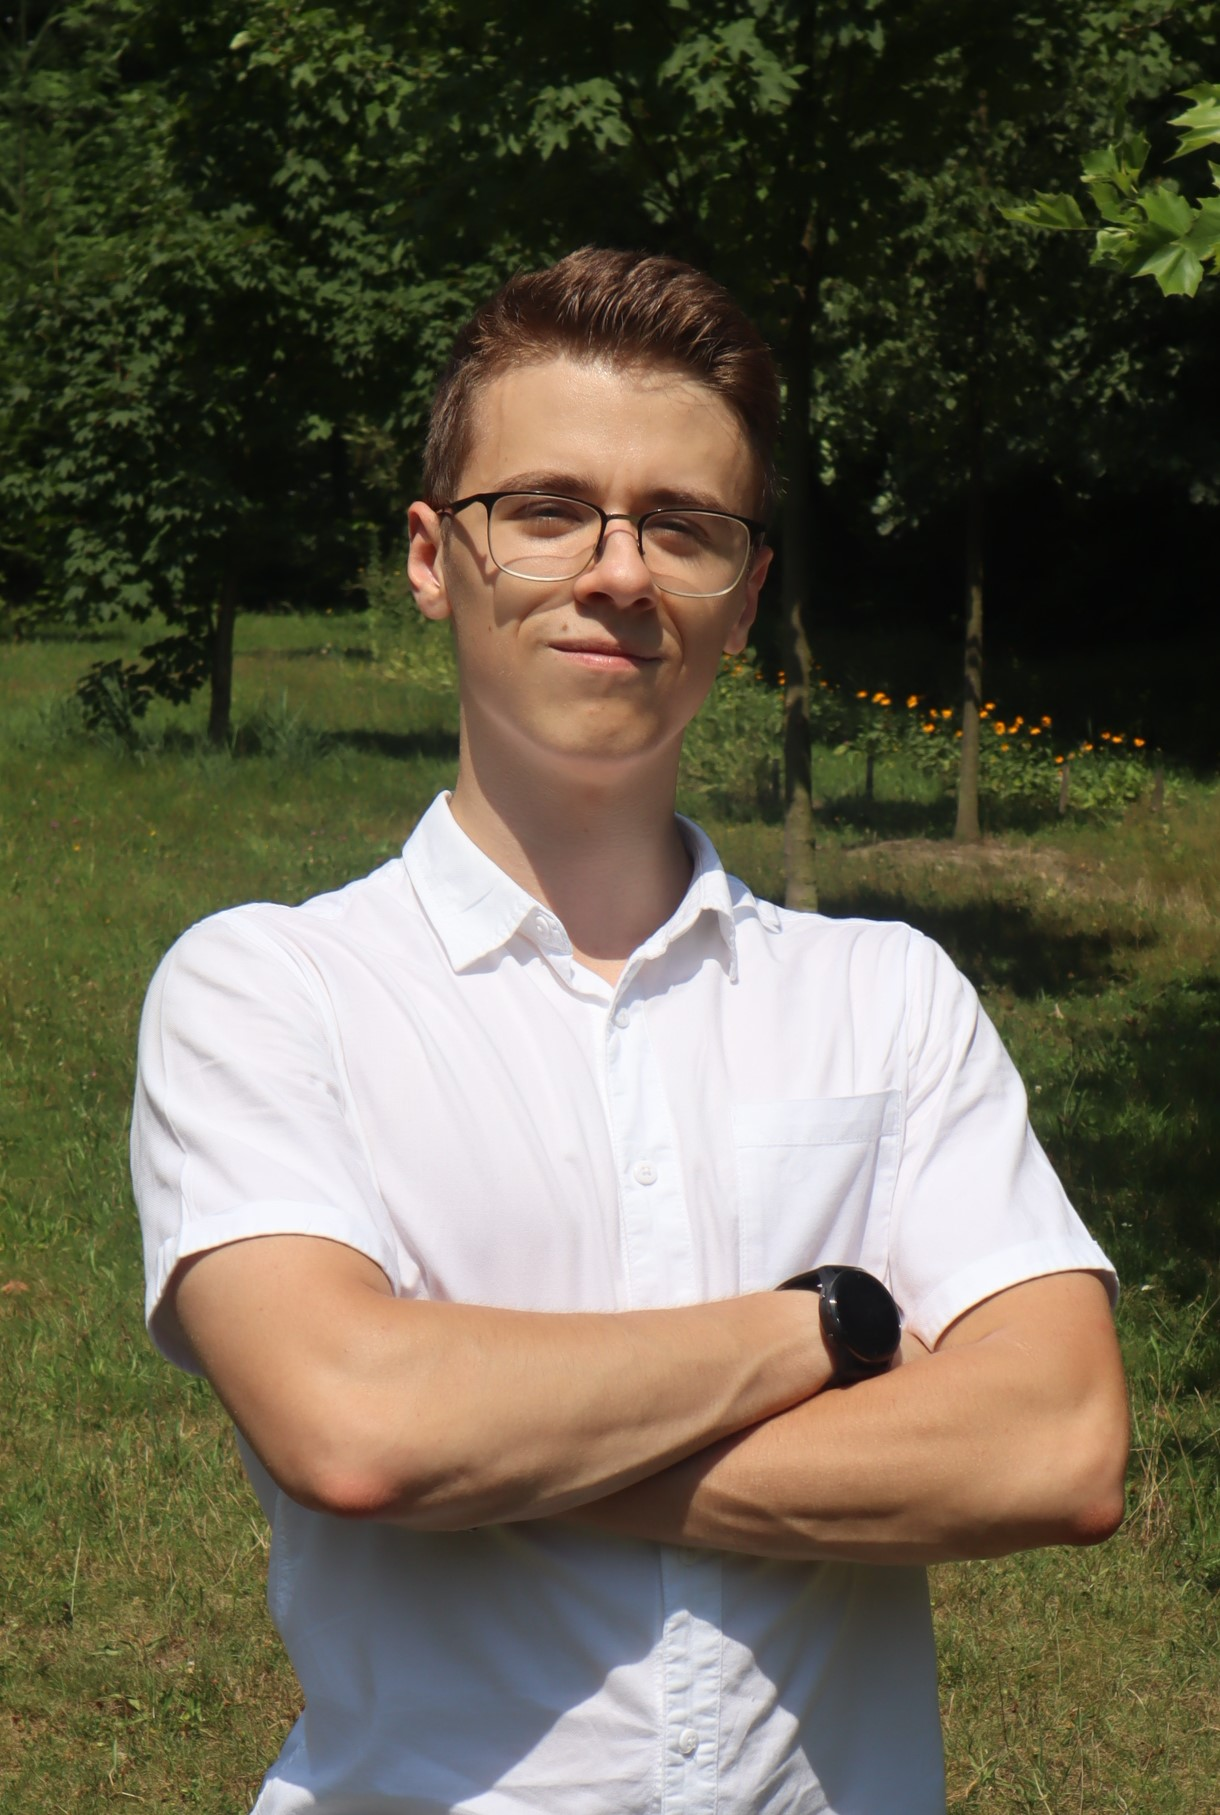
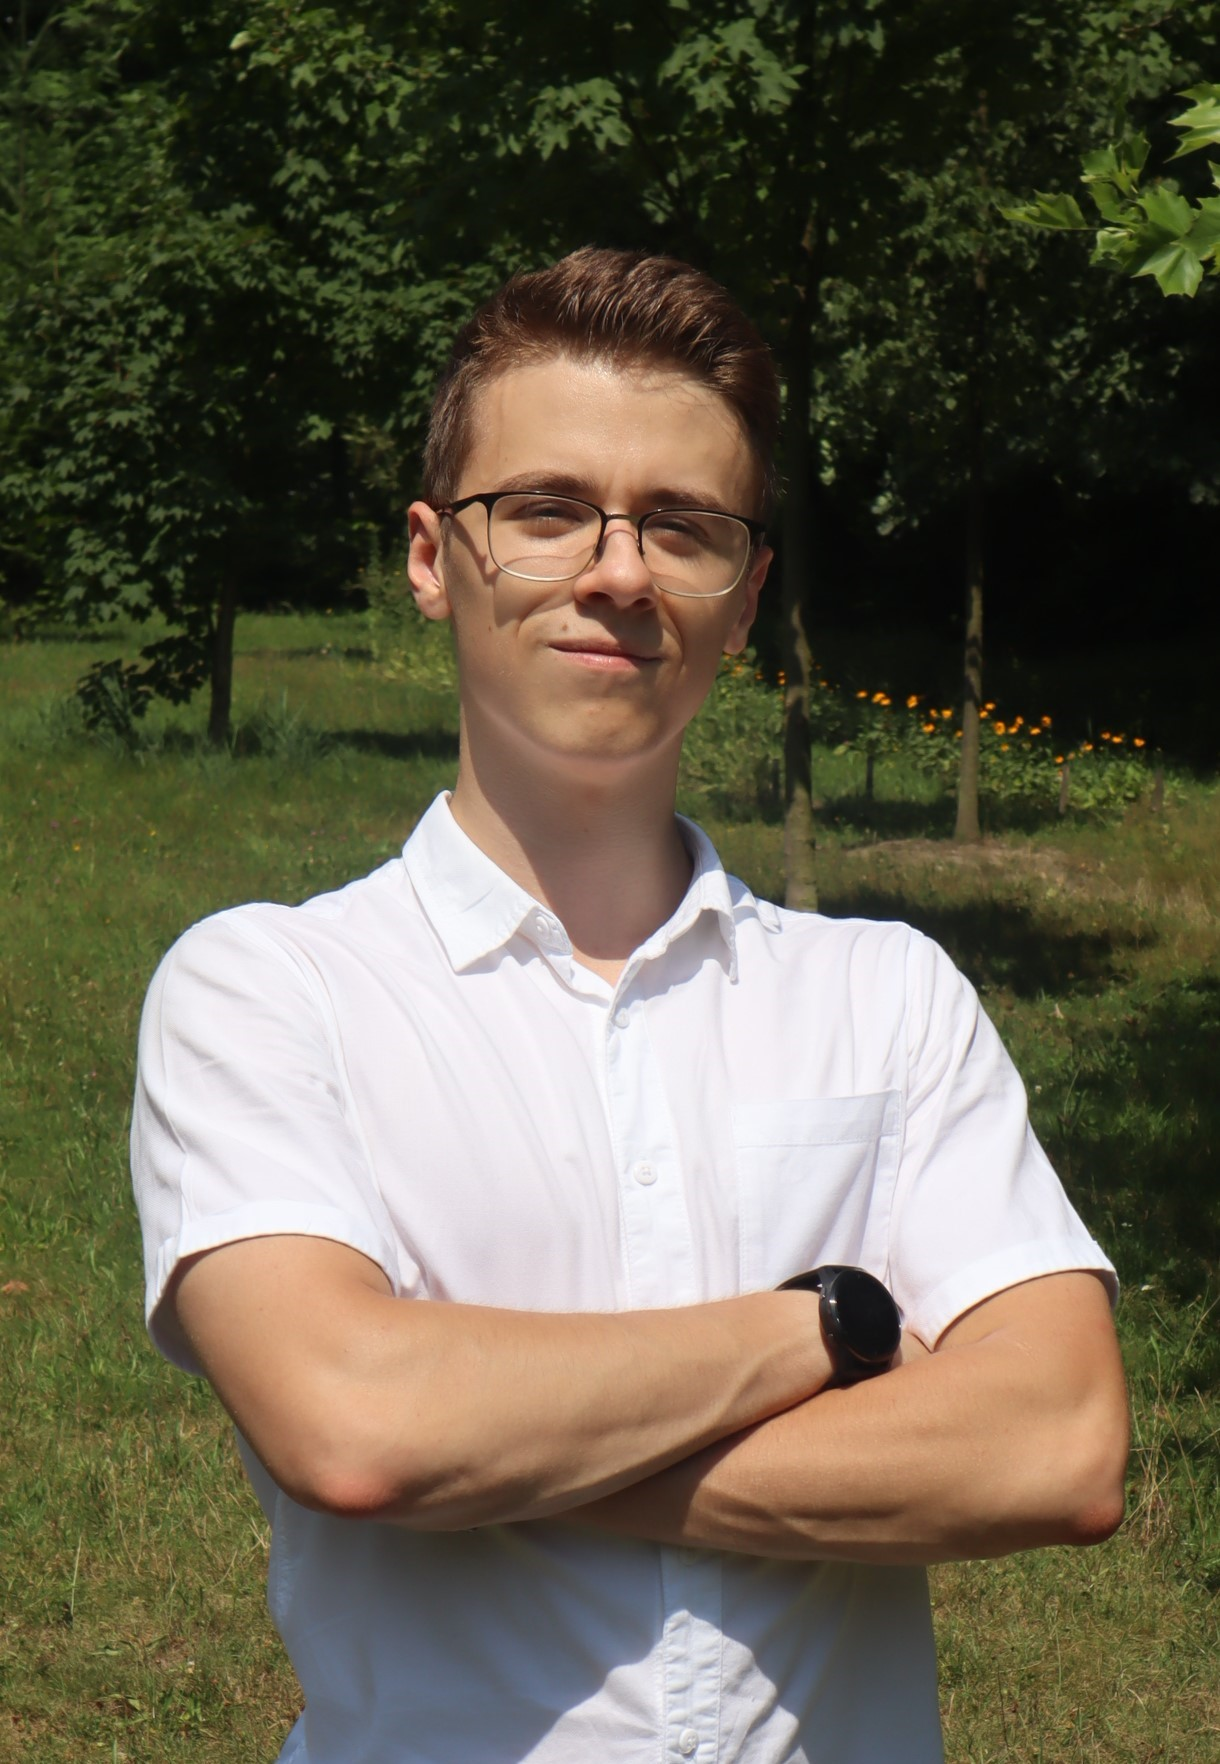
added second photo and edited their size

diff --git a/html/about.html b/html/about.html
@@ -79,7 +79,7 @@
                                 <p>Website: <a href="https://dominikstas.github.io/home/" class="black">https://dominikstas.github.io/home/</a></p>
                             </div>
                             <div class="founder-card card">
-                                <img src="../static/images/founder2.jpg">
+                                <img src="../static/images/IMG_3768.JPG">
                                 <h4>Łukasz Holeczek</h4>
                                 <p>CTO & Co-founder</p><br>
                                 <p>Web development specialist</p><br>
